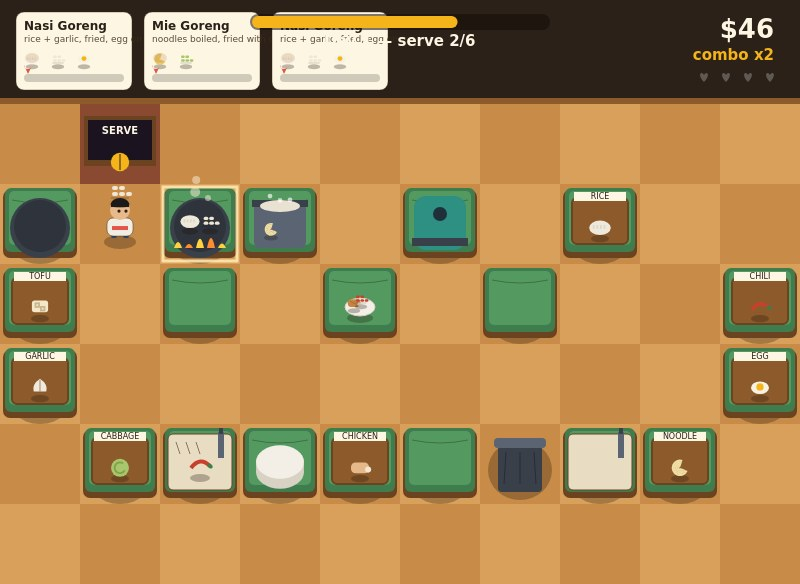
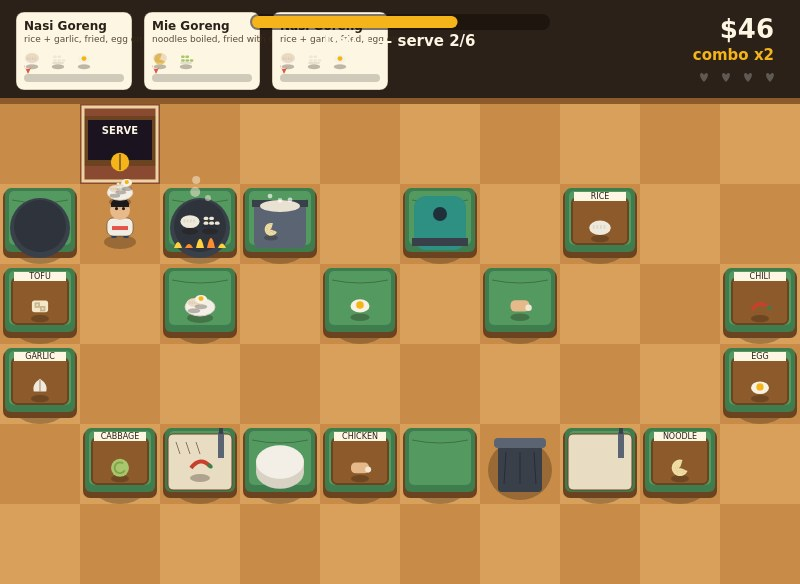
stage the serve-window money shot and counter stock

diff --git a/game/src/shots.js b/game/src/shots.js
@@ -30,7 +30,8 @@ export function stageShot(name, world) {
       order.arrivedAt = world.dayTime - order.patience * (1 - fraction);
       world.orders.push(order);
     });
-    // The kitchen mid-service: a wok frying rice and garlic, a pot of noodles, chili on the board.
+    // The kitchen mid-service: a wok frying rice and garlic, a pot of noodles, chili mid-chop,
+    // raw ingredients waiting on the counters, and the chef carrying a finished plate to serve.
     const stations = world.stations;
     const wokA = stations.get('2,1');
     wokA.items = [{ ingredient: 'rice', kind: 'raw' }, { ingredient: 'garlic', kind: 'chopped' }];
@@ -43,21 +44,29 @@ export function stageShot(name, world) {
     const board = stations.get('2,4');
     board.item = { ingredient: 'chili', kind: 'raw' };
     board.progress = 0.6;
-    // A plate mid-assembly on the counter, one part short of its dish.
-    const counter = stations.get('4,2');
-    counter.item = {
+    // Raw ingredients parked on the counters and a second plate mid-assembly.
+    stations.get('4,2').item = { ingredient: 'egg', kind: 'raw' };
+    stations.get('6,2').item = { ingredient: 'chicken', kind: 'raw' };
+    stations.get('2,2').item = {
       plate: true,
       parts: [
-        { ingredient: 'chicken', kind: 'cooked' },
-        { ingredient: 'chili', kind: 'chopped' },
+        { ingredient: 'rice', kind: 'cooked' },
+        { ingredient: 'egg', kind: 'raw' },
       ],
     };
-    // The chef stands by the wok holding the missing garlic, ready to finish the dish.
+    // The chef stands at the serve window holding the complete dish, ready to ring the bell.
     world.chef.x = 1.5;
     world.chef.y = 1.5;
-    world.chef.facingX = 1;
-    world.chef.facingY = 0;
-    world.chef.held = { ingredient: 'garlic', kind: 'chopped' };
+    world.chef.facingX = 0;
+    world.chef.facingY = -1;
+    world.chef.held = {
+      plate: true,
+      parts: [
+        { ingredient: 'rice', kind: 'cooked' },
+        { ingredient: 'garlic', kind: 'chopped' },
+        { ingredient: 'egg', kind: 'raw' },
+      ],
+    };
     return { screen: 'play' };
   }
   if (name === 'end') {
